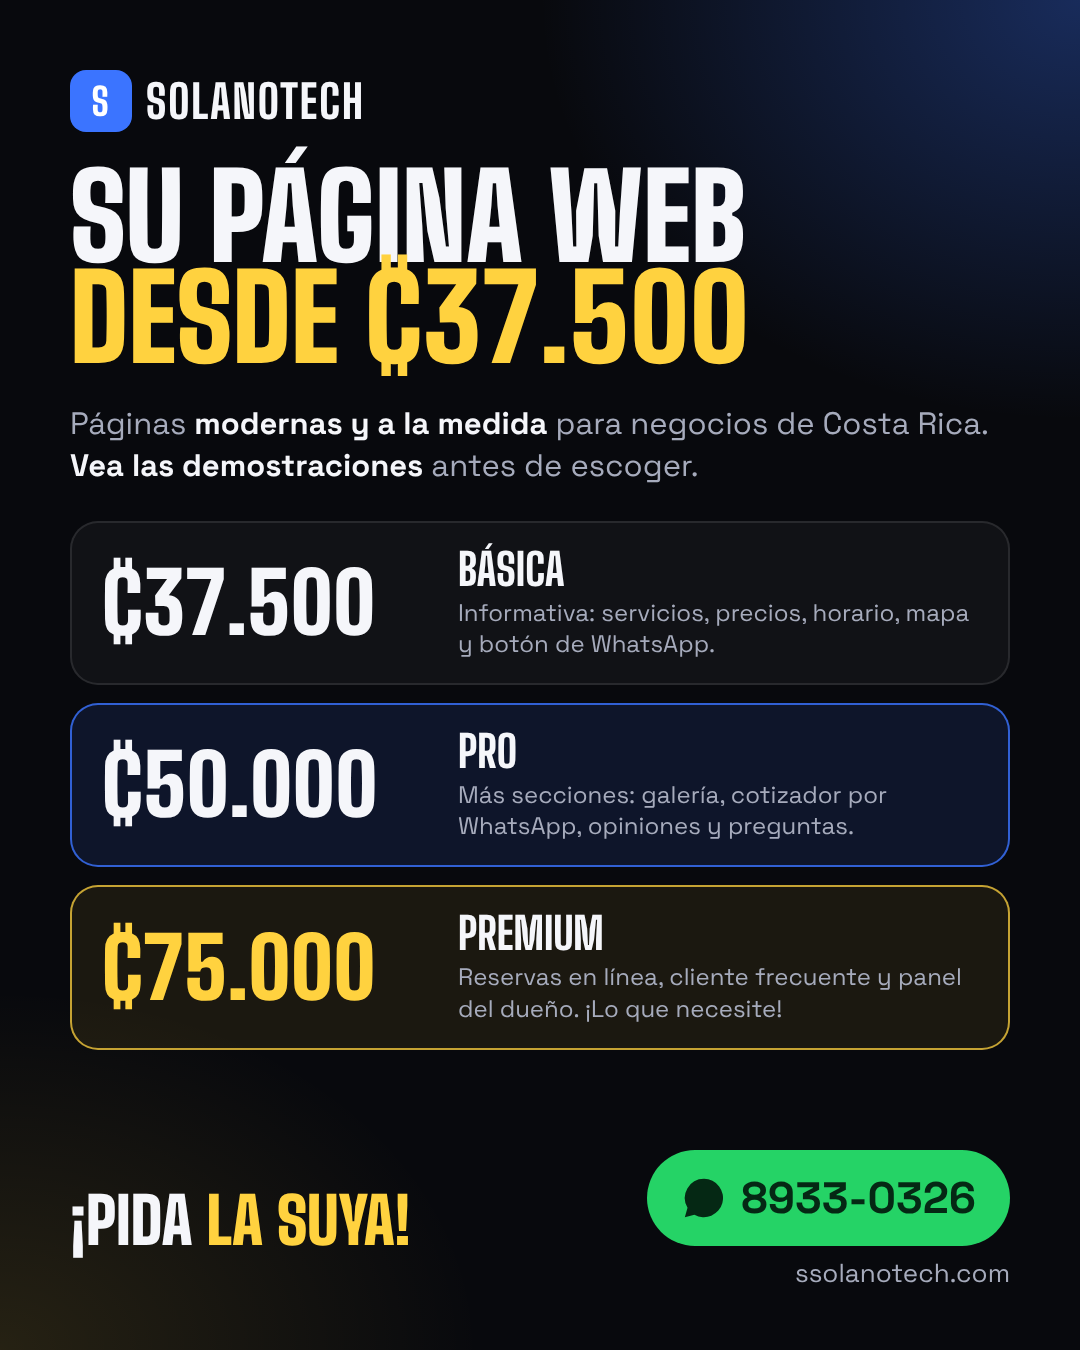
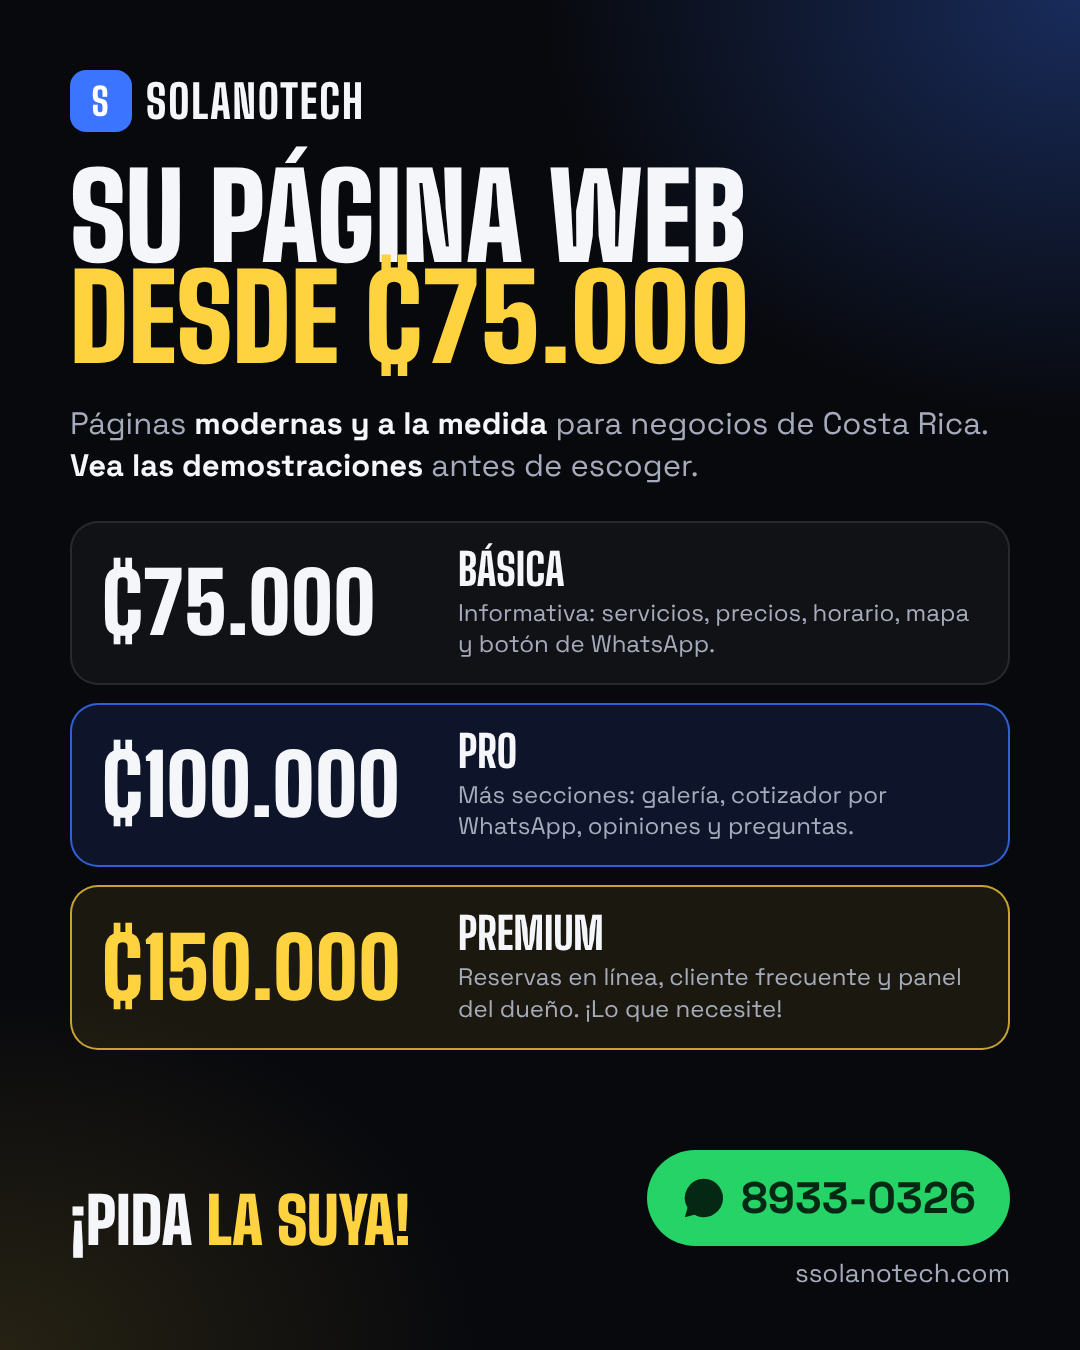
Solanotech planes: precios ₡75.000, ₡100.000 y ₡150.000
Claude-Session: https://claude.ai/code/session_01XyaXnffiHNGSgLBRVYYTi9

diff --git a/solanotech/planes/public/index.html b/solanotech/planes/public/index.html
@@ -4,9 +4,9 @@
 <meta charset="utf-8">
 <meta name="viewport" content="width=device-width, initial-scale=1">
 <title>Planes de páginas web · Solanotech</title>
-<meta name="description" content="Páginas web para negocios de Costa Rica desde ₡37.500: informativa, Pro y Premium con reservas en línea. Vea las demostraciones.">
-<meta property="og:title" content="Su página web desde ₡37.500 · Solanotech">
-<meta property="og:description" content="Informativa ₡37.500 · Pro ₡50.000 · Premium ₡75.000. Vea las demostraciones y pida la suya por WhatsApp.">
+<meta name="description" content="Páginas web para negocios de Costa Rica desde ₡75.000: informativa, Pro y Premium con reservas en línea. Vea las demostraciones.">
+<meta property="og:title" content="Su página web desde ₡75.000 · Solanotech">
+<meta property="og:description" content="Informativa ₡75.000 · Pro ₡100.000 · Premium ₡150.000. Vea las demostraciones y pida la suya por WhatsApp.">
 <link rel="preconnect" href="https://fonts.googleapis.com"><link rel="preconnect" href="https://fonts.gstatic.com" crossorigin>
 <link rel="stylesheet" href="https://fonts.googleapis.com/css2?family=Big+Shoulders+Display:wght@700;800;900&family=Space+Grotesk:wght@400;500;600;700&display=swap">
 <link rel="stylesheet" href="comun.css">
@@ -69,7 +69,7 @@ footer .wrap{display:flex;justify-content:space-between;gap:16px;flex-wrap:wrap;
 <section class="wrap planes" id="planes">
   <article class="plan">
     <h2>Básica</h2><p class="para">Para que lo encuentren y le escriban.</p>
-    <div class="precio"><b>₡37.500</b><small>pago único</small></div>
+    <div class="precio"><b>₡75.000</b><small>pago único</small></div>
     <ul>
       <li>Página de una sola sección, informativa</li>
       <li>Su logo, colores, servicios y precios</li>
@@ -78,12 +78,12 @@ footer .wrap{display:flex;justify-content:space-between;gap:16px;flex-wrap:wrap;
       <li>Adaptada al celular</li>
       <li>Lista para aparecer en Google</li>
     </ul>
-    <div class="acc"><a class="btn btn-a" href="demo-basica.html">👀 Ver demostración</a><a class="btn btn-b" href="https://wa.me/50689330326?text=Hola%20Solanotech%2C%20me%20interesa%20la%20p%C3%A1gina%20B%C3%A1sica%20de%20%E2%82%A137.500" target="_blank" rel="noopener">Pedir la Básica</a></div>
+    <div class="acc"><a class="btn btn-a" href="demo-basica.html">👀 Ver demostración</a><a class="btn btn-b" href="https://wa.me/50689330326?text=Hola%20Solanotech%2C%20me%20interesa%20la%20p%C3%A1gina%20B%C3%A1sica%20de%20%E2%82%A175.000" target="_blank" rel="noopener">Pedir la Básica</a></div>
   </article>
   <article class="plan dest">
     <span class="etq">La más pedida</span>
     <h2>Pro</h2><p class="para">Más secciones, más botones y más ventas.</p>
-    <div class="precio"><b>₡50.000</b><small>pago único</small></div>
+    <div class="precio"><b>₡100.000</b><small>pago único</small></div>
     <ul>
       <li>Todo lo de la Básica</li>
       <li class="mas">Varias secciones: servicios, trabajos, opiniones, preguntas</li>
@@ -93,12 +93,12 @@ footer .wrap{display:flex;justify-content:space-between;gap:16px;flex-wrap:wrap;
       <li class="mas">Animaciones y diseño más trabajado</li>
       <li class="mas">QR para reseñas de Google</li>
     </ul>
-    <div class="acc"><a class="btn btn-a" href="demo-pro.html">👀 Ver demostración</a><a class="btn btn-b" href="https://wa.me/50689330326?text=Hola%20Solanotech%2C%20me%20interesa%20la%20p%C3%A1gina%20Pro%20de%20%E2%82%A150.000" target="_blank" rel="noopener">Pedir la Pro</a></div>
+    <div class="acc"><a class="btn btn-a" href="demo-pro.html">👀 Ver demostración</a><a class="btn btn-b" href="https://wa.me/50689330326?text=Hola%20Solanotech%2C%20me%20interesa%20la%20p%C3%A1gina%20Pro%20de%20%E2%82%A1100.000" target="_blank" rel="noopener">Pedir la Pro</a></div>
   </article>
   <article class="plan prem">
     <span class="etq">Premium</span>
     <h2>Premium</h2><p class="para">Su negocio funcionando solo en internet.</p>
-    <div class="precio"><b>₡75.000</b><small>pago único</small></div>
+    <div class="precio"><b>₡150.000</b><small>pago único</small></div>
     <ul>
       <li>Todo lo de la Pro</li>
       <li class="mas">Reservas en línea con horario real</li>
@@ -107,7 +107,7 @@ footer .wrap{display:flex;justify-content:space-between;gap:16px;flex-wrap:wrap;
       <li class="mas">Recordatorios de citas</li>
       <li class="mas">Lo que su negocio necesite: si se puede programar, se hace</li>
     </ul>
-    <div class="acc"><a class="btn btn-a" href="demo-premium.html">👀 Ver demostración</a><a class="btn btn-b" href="https://wa.me/50689330326?text=Hola%20Solanotech%2C%20me%20interesa%20la%20p%C3%A1gina%20Premium%20de%20%E2%82%A175.000" target="_blank" rel="noopener">Pedir la Premium</a></div>
+    <div class="acc"><a class="btn btn-a" href="demo-premium.html">👀 Ver demostración</a><a class="btn btn-b" href="https://wa.me/50689330326?text=Hola%20Solanotech%2C%20me%20interesa%20la%20p%C3%A1gina%20Premium%20de%20%E2%82%A1150.000" target="_blank" rel="noopener">Pedir la Premium</a></div>
   </article>
 </section>
 

diff --git a/solanotech/planes/public/demo-pro.html b/solanotech/planes/public/demo-pro.html
@@ -74,7 +74,7 @@ footer{border-top:1px solid var(--linea);padding:26px 0 90px;color:var(--gr);fon
 </style>
 </head>
 <body>
-<div class="cinta"><div class="wrap"><a class="logo-s" href="index.html"><i>S</i>SOLANOTECH</a><span class="txt">Demostración del <b>Plan Pro · ₡50.000</b> · negocio de ejemplo</span><a href="index.html">Ver planes</a></div></div>
+<div class="cinta"><div class="wrap"><a class="logo-s" href="index.html"><i>S</i>SOLANOTECH</a><span class="txt">Demostración del <b>Plan Pro · ₡100.000</b> · negocio de ejemplo</span><a href="index.html">Ver planes</a></div></div>
 <nav><div class="wrap"><a class="marca" href="#">Motor<span>Pro</span></a><div class="links"><a href="#servicios">Servicios</a><a href="#cotizar">Cotizar</a><a href="#trabajos">Trabajos</a><a href="#opiniones">Opiniones</a><a href="#preguntas">Preguntas</a></div><a class="btn btn-wa" href="https://wa.me/50689330326?text=Hola%2C%20vi%20la%20demo%20Pro%20(taller)%20y%20quiero%20una%20as%C3%AD" target="_blank" rel="noopener">WhatsApp</a></div></nav>
 
 <div class="wrap">
@@ -146,7 +146,7 @@ footer{border-top:1px solid var(--linea);padding:26px 0 90px;color:var(--gr);fon
   </section>
 </div>
 <div class="visor" id="visor" role="dialog" aria-label="Foto ampliada"><div><div id="visorIco"></div><p id="visorTxt"></p></div></div>
-<footer>Motor Pro es un negocio de ejemplo · Página hecha por <b>Solanotech</b> · Plan Pro ₡50.000</footer>
+<footer>Motor Pro es un negocio de ejemplo · Página hecha por <b>Solanotech</b> · Plan Pro ₡100.000</footer>
 <a class="flota" href="https://wa.me/50689330326?text=Hola%2C%20vi%20la%20demo%20Pro%20y%20quiero%20una%20p%C3%A1gina%20as%C3%AD" target="_blank" rel="noopener" aria-label="WhatsApp"><svg viewBox="0 0 24 24" fill="#fff"><path d="M12 2a10 10 0 0 0-8.6 15.1L2 22l5-1.3A10 10 0 1 0 12 2Zm4.5 12.1c-.2-.1-1.5-.7-1.7-.8-.2-.1-.4-.1-.6.1l-.8 1c-.1.2-.3.2-.5.1a6.7 6.7 0 0 1-3.3-2.9c-.3-.4.3-.4.7-1.4.1-.2 0-.3 0-.4l-.8-1.8c-.2-.5-.4-.4-.6-.4h-.5a1 1 0 0 0-.7.3 3 3 0 0 0-.9 2.2 5.2 5.2 0 0 0 1.1 2.7 11.8 11.8 0 0 0 4.5 4c1.7.7 2.3.8 3.2.6a2.7 2.7 0 0 0 1.8-1.2c.2-.6.2-1 .1-1.2z"/></svg></a>
 <script>
 (function(){

diff --git a/solanotech/promos/planes/promo-planes.html b/solanotech/promos/planes/promo-planes.html
@@ -31,12 +31,12 @@ body.historia .pl b{font-size:92px}body.historia .pl{grid-template-columns:360px
 </style></head>
 <body>
 <div class="logo"><i>S</i>SOLANOTECH</div>
-<h1>Su página web <span>desde ₡37.500</span></h1>
+<h1>Su página web <span>desde ₡75.000</span></h1>
 <p class="sub">Páginas <b>modernas y a la medida</b> para negocios de Costa Rica. <b>Vea las demostraciones</b> antes de escoger.</p>
 <div class="planes">
-  <div class="pl"><b>₡37.500</b><div><h2>Básica</h2><p>Informativa: servicios, precios, horario, mapa y botón de WhatsApp.</p></div></div>
-  <div class="pl pro"><b>₡50.000</b><div><h2>Pro</h2><p>Más secciones: galería, cotizador por WhatsApp, opiniones y preguntas.</p></div></div>
-  <div class="pl pre"><b>₡75.000</b><div><h2>Premium</h2><p>Reservas en línea, cliente frecuente y panel del dueño. ¡Lo que necesite!</p></div></div>
+  <div class="pl"><b>₡75.000</b><div><h2>Básica</h2><p>Informativa: servicios, precios, horario, mapa y botón de WhatsApp.</p></div></div>
+  <div class="pl pro"><b>₡100.000</b><div><h2>Pro</h2><p>Más secciones: galería, cotizador por WhatsApp, opiniones y preguntas.</p></div></div>
+  <div class="pl pre"><b>₡150.000</b><div><h2>Premium</h2><p>Reservas en línea, cliente frecuente y panel del dueño. ¡Lo que necesite!</p></div></div>
 </div>
 <div class="extra"><div>✓ Adaptada al celular</div><div>✓ Botón de WhatsApp</div><div>✓ Lista para Google</div><div>✓ Segura (candado)</div><div>✓ Su dominio .com</div><div>✓ Diseño a la medida</div></div>
 <div class="pie"><div class="pida">¡Pida <span>la suya!</span></div><div><div class="wa"><svg viewBox="0 0 24 24" fill="#052814"><path d="M12 2a10 10 0 0 0-8.6 15.1L2 22l5-1.3A10 10 0 1 0 12 2Zm4.5 12.1c-.2-.1-1.5-.7-1.7-.8-.2-.1-.4-.1-.6.1l-.8 1c-.1.2-.3.2-.5.1a6.7 6.7 0 0 1-3.3-2.9c-.3-.4.3-.4.7-1.4.1-.2 0-.3 0-.4l-.8-1.8c-.2-.5-.4-.4-.6-.4h-.5a1 1 0 0 0-.7.3 3 3 0 0 0-.9 2.2 5.2 5.2 0 0 0 1.1 2.7 11.8 11.8 0 0 0 4.5 4c1.7.7 2.3.8 3.2.6a2.7 2.7 0 0 0 1.8-1.2c.2-.6.2-1 .1-1.2z"/></svg>8933-0326</div><div class="web">ssolanotech.com</div></div></div>

diff --git a/solanotech/planes/public/demo-basica.html b/solanotech/planes/public/demo-basica.html
@@ -45,7 +45,7 @@ footer{border-top:1px solid rgba(255,255,255,.08);padding:26px 0 90px;color:var(
 </style>
 </head>
 <body>
-<div class="cinta"><div class="wrap"><a class="logo-s" href="index.html"><i>S</i>SOLANOTECH</a><span class="txt">Demostración del <b>Plan Básico · ₡37.500</b> · negocio de ejemplo</span><a href="index.html">Ver planes</a></div></div>
+<div class="cinta"><div class="wrap"><a class="logo-s" href="index.html"><i>S</i>SOLANOTECH</a><span class="txt">Demostración del <b>Plan Básico · ₡75.000</b> · negocio de ejemplo</span><a href="index.html">Ver planes</a></div></div>
 
 <div class="wrap">
   <div class="top"><a class="marca" href="#"><svg viewBox="0 0 48 48" fill="none" stroke="#D9A84E" stroke-width="3" stroke-linecap="round"><circle cx="13" cy="35" r="6"/><circle cx="35" cy="35" r="6"/><path d="M17 31 38 8M31 31 10 8"/></svg>Corte &amp; Estilo</a><a class="llamar" href="tel:+50689330326">📞 Llamar</a></div>
@@ -77,7 +77,7 @@ footer{border-top:1px solid rgba(255,255,255,.08);padding:26px 0 90px;color:var(
   </section>
 </div>
 
-<footer>Corte &amp; Estilo es un negocio de ejemplo · Página hecha por <b>Solanotech</b> · Plan Básico ₡37.500</footer>
+<footer>Corte &amp; Estilo es un negocio de ejemplo · Página hecha por <b>Solanotech</b> · Plan Básico ₡75.000</footer>
 <a class="flota" href="https://wa.me/50689330326?text=Hola%2C%20vi%20la%20demo%20B%C3%A1sica%20y%20quiero%20una%20p%C3%A1gina%20as%C3%AD" target="_blank" rel="noopener" aria-label="WhatsApp"><svg viewBox="0 0 24 24" fill="#fff"><path d="M12 2a10 10 0 0 0-8.6 15.1L2 22l5-1.3A10 10 0 1 0 12 2Zm4.5 12.1c-.2-.1-1.5-.7-1.7-.8-.2-.1-.4-.1-.6.1l-.8 1c-.1.2-.3.2-.5.1a6.7 6.7 0 0 1-3.3-2.9c-.3-.4.3-.4.7-1.4.1-.2 0-.3 0-.4l-.8-1.8c-.2-.5-.4-.4-.6-.4h-.5a1 1 0 0 0-.7.3 3 3 0 0 0-.9 2.2 5.2 5.2 0 0 0 1.1 2.7 11.8 11.8 0 0 0 4.5 4c1.7.7 2.3.8 3.2.6a2.7 2.7 0 0 0 1.8-1.2c.2-.6.2-1 .1-1.2z"/></svg></a>
 </body>
 </html>

diff --git a/solanotech/planes/public/demo-premium.html b/solanotech/planes/public/demo-premium.html
@@ -59,7 +59,7 @@ footer{border-top:1px solid var(--linea);padding:26px 0 40px;color:var(--gr);fon
 </style>
 </head>
 <body>
-<div class="cinta"><div class="wrap"><a class="logo-s" href="index.html"><i>S</i>SOLANOTECH</a><span class="txt">Demostración del <b>Plan Premium · ₡75.000</b> · negocio de ejemplo</span><a href="index.html">Ver planes</a></div></div>
+<div class="cinta"><div class="wrap"><a class="logo-s" href="index.html"><i>S</i>SOLANOTECH</a><span class="txt">Demostración del <b>Plan Premium · ₡150.000</b> · negocio de ejemplo</span><a href="index.html">Ver planes</a></div></div>
 <div class="wrap">
   <section class="hero"><div class="marca">Bella Studio</div><h1>Reserve su cita <span>en 1 minuto</span></h1><p>Uñas, cabello y cejas en Cartago. Escoja el servicio, el día y la hora.</p></section>
   <p class="demo">🧪 <b>Pruébelo:</b> reserve una cita, vea cómo le llega a la tarjeta del cliente y cómo la ve el dueño en su panel. En esta demostración todo se guarda solo en su celular.</p>
@@ -90,7 +90,7 @@ footer{border-top:1px solid var(--linea);padding:26px 0 40px;color:var(--gr);fon
   <a class="btn btn-wa" style="max-width:720px;margin:0 auto 30px" href="https://wa.me/50689330326?text=Hola%2C%20vi%20la%20demo%20Premium%20(reservas)%20y%20quiero%20algo%20as%C3%AD%20para%20mi%20negocio" target="_blank" rel="noopener">💬 Quiero esto para mi negocio</a>
 </div>
 <div class="toast" id="toast"></div>
-<footer>Bella Studio es un negocio de ejemplo · Sistema hecho por <b>Solanotech</b> · Plan Premium ₡75.000</footer>
+<footer>Bella Studio es un negocio de ejemplo · Sistema hecho por <b>Solanotech</b> · Plan Premium ₡150.000</footer>
 <script>
 (function(){
   var d=document, $=function(i){ return d.getElementById(i) }, col=function(n){ return '₡'+String(Math.round(n)).replace(/\B(?=(\d{3})+(?!\d))/g,'.') }, K='bella-demo-v1';
